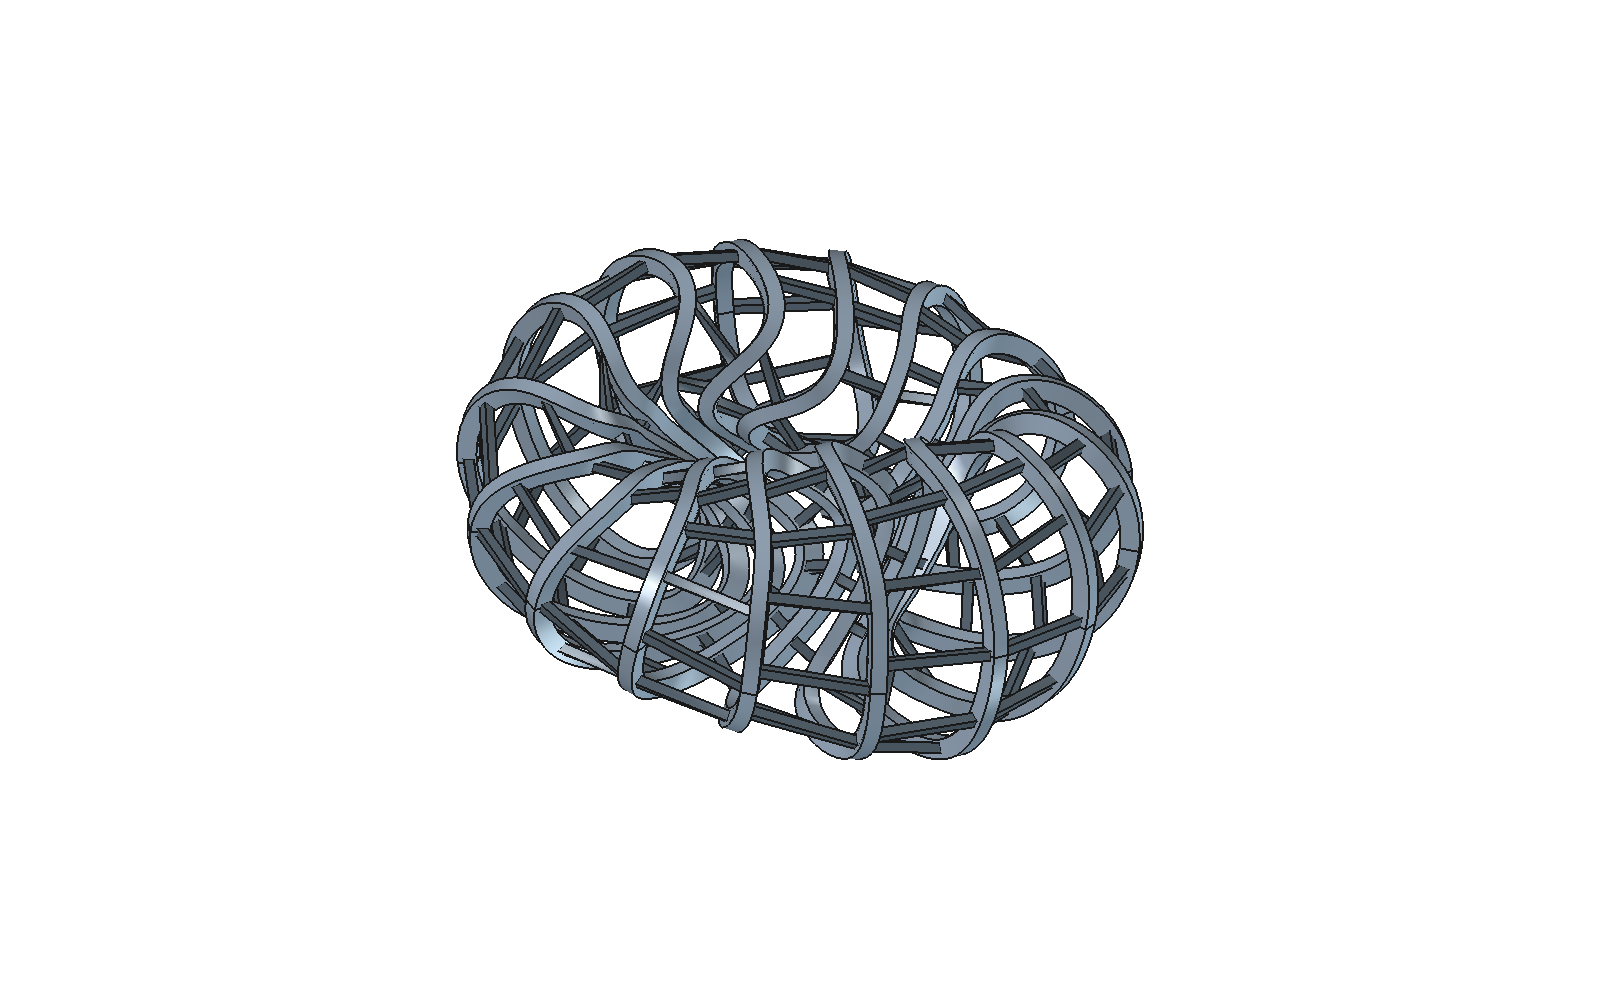
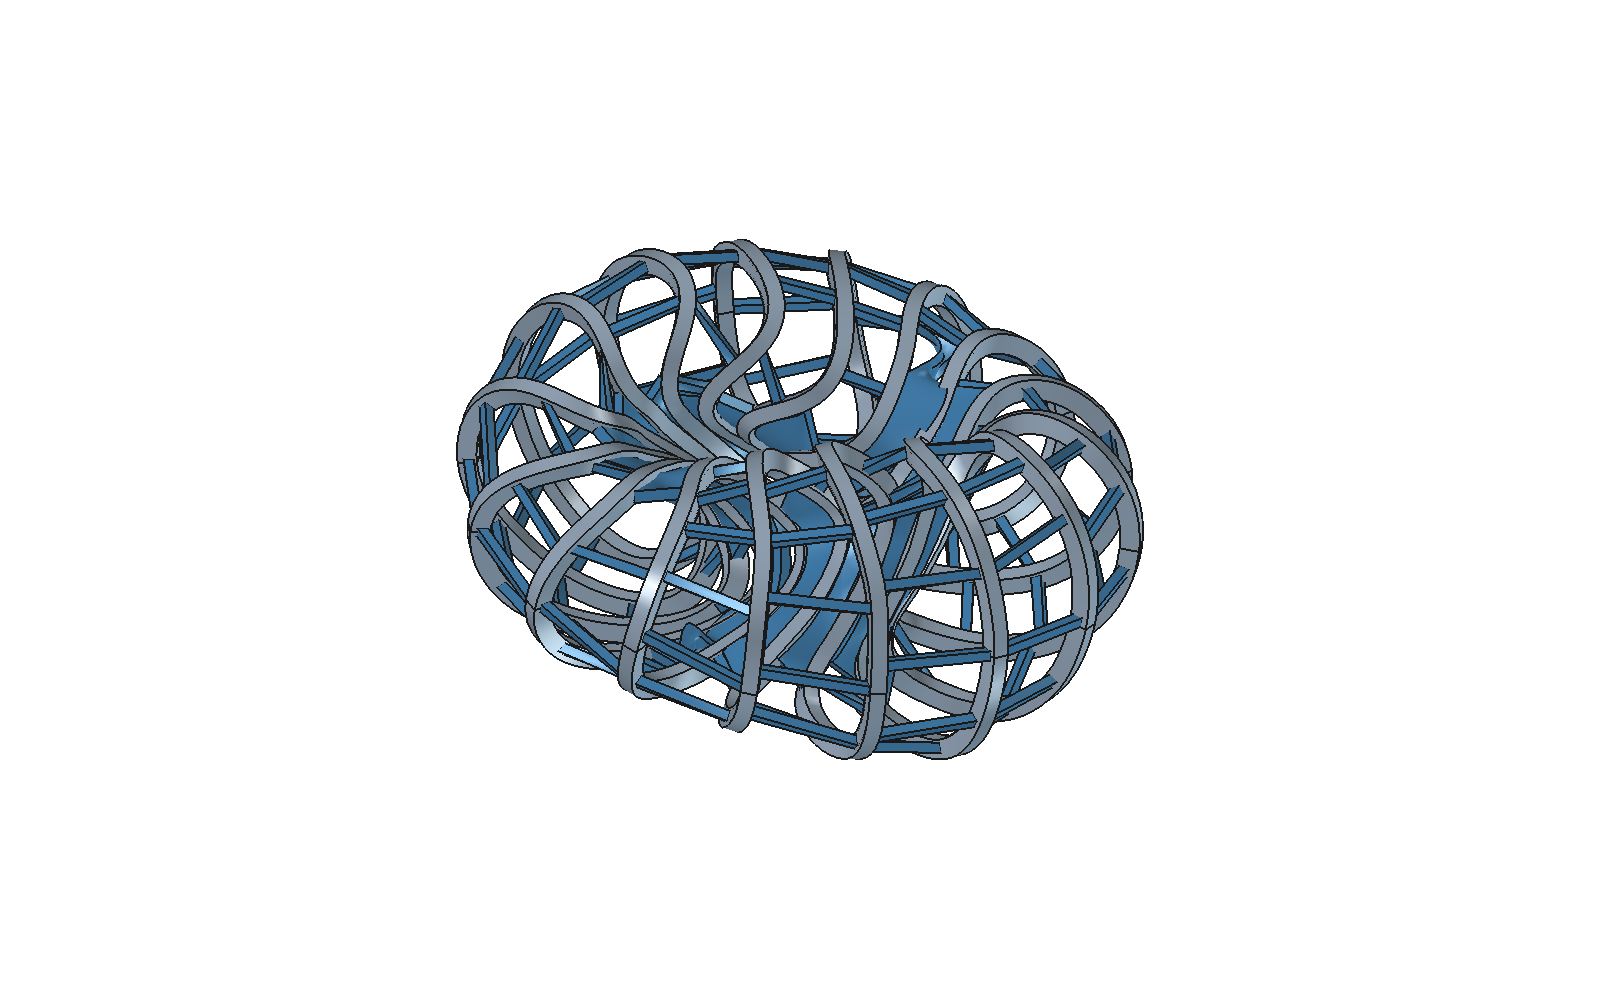
Keil auf der Torus-Innenseite (Gewoelbe nach Bachmann 2024), parametrisch, WP ausgeschnitten

diff --git a/stellarator/gehaeuse.py b/stellarator/gehaeuse.py
@@ -83,6 +83,17 @@ def permutationen(spulen, kand) -> list[list[int]]:
     return [[int(baum.query(M @ c)[1]) for c in S] for M in kand]
 
 
+def keil_bereich(dmin: np.ndarray, spanne: float) -> np.ndarray:
+    """Indizes (zyklisch zusammenhaengend) um den engsten Abstand mit dmin <= dmin.min() + spanne."""
+    i0 = int(np.argmin(dmin)); N = len(dmin); ok = dmin <= dmin.min() + spanne
+    lo = hi = i0
+    while ok[(lo - 1) % N] and (i0 - lo) < N // 2:
+        lo -= 1
+    while ok[(hi + 1) % N] and (hi - i0) < N // 2:
+        hi += 1
+    return np.arange(lo, hi + 1) % N
+
+
 def verbinder(spulen, nfp: int, br: float, ho: float, a) -> tuple[list[dict], list[dict]]:
     """Verbindungsstuecke zwischen toroidal benachbarten Gehaeusen.
 
@@ -107,8 +118,22 @@ def verbinder(spulen, nfp: int, br: float, ho: float, a) -> tuple[list[dict], li
             continue
         Pa, Pb = spulen[pa].punkte, spulen[pb].punkte
         ta, na, ba = rahmen[pa]; tb, nb_, bb = rahmen[pb]
+        # Keil (Bachmann 2024: Gewoelbe innen): zusammenhaengender Bereich um den engsten Abstand
+        dmin = np.array([np.linalg.norm(Pb - p, axis=1).min() for p in Pa])
+        bereich = keil_bereich(dmin, a.keil_spanne) if a.keil else np.array([], int)
+        keil = []
+        for i in bereich[np.linspace(0, len(bereich) - 1, a.keil).astype(int)] if len(bereich) else []:
+            j = int(np.argmin(np.linalg.norm(Pb - Pa[i], axis=1)))
+            d = Pb[j] - Pa[i]
+            ca = Pa[i] + np.sign(ba[i] @ d) * versatz * ba[i]; cb = Pb[j] + np.sign(bb[j] @ -d) * versatz * bb[j]
+            y = (cb - ca) / np.linalg.norm(cb - ca)
+            x = na[i] + nb_[j]; x -= (x @ y) * y; x /= np.linalg.norm(x)
+            keil.append({"c": (0.5 * (ca + cb) * 1e3).tolist(), "x": x.tolist(), "y": y.tolist(),
+                         "L": float(np.linalg.norm(cb - ca) * 1e3)})
         st = []
         for i in np.linspace(0, len(Pa), a.verbinder, endpoint=False).astype(int):
+            if i in set(bereich.tolist()):
+                continue                                         # dort sitzt der Keil
             j = int(np.argmin(np.linalg.norm(Pb - Pa[i], axis=1)))
             d = Pb[j] - Pa[i]
             sa, sb = np.sign(ba[i] @ d), np.sign(bb[j] @ -d)
@@ -117,7 +142,8 @@ def verbinder(spulen, nfp: int, br: float, ho: float, a) -> tuple[list[dict], li
             st.append({"A": {"c": (ca * 1e3).tolist(), "x": na[i].tolist(), "y": ya.tolist()},
                        "B": {"c": (cb * 1e3).tolist(), "x": nb_[j].tolist(), "y": yb.tolist()},
                        "laenge_m": float(np.linalg.norm(cb - ca))})
-        kanon.append({"name": f"V_{spulen[pa].name}_{spulen[pb].name}", "a": pa, "b": pb, "stationen": st})
+        kanon.append({"name": f"V_{spulen[pa].name}_{spulen[pb].name}", "a": pa, "b": pb, "stationen": st,
+                      "keil": keil})
     return kanon, klone
 
 
@@ -149,7 +175,8 @@ def eingabe(fall: dict, a, ordner: Path) -> Path:
          "kraft_max_MN_m": fmax / 1e6, "spulen_namen": [s.name for s in spulen]}
     if a.verbinder:
         d["verbinder"], d["verbinder_klone"] = verbinder(spulen, geo["nfp"], br, ho, a)
-        d["parameter"] |= {"verb_breite": a.verb_breite * mm, "verb_tiefe": a.verb_tiefe * mm}
+        d["parameter"] |= {"verb_breite": a.verb_breite * mm, "verb_tiefe": a.verb_tiefe * mm,
+                           "keil_tiefe": a.keil_tiefe * mm}
     ordner.mkdir(parents=True, exist_ok=True)
     p = ordner / "vss_eingabe.json"; p.write_text(json.dumps(d))
     return p
@@ -187,6 +214,9 @@ def main(argv=None):
     ap.add_argument("--verbinder", type=int, default=10, help="Verbindungsstuecke je Nachbarpaar (0 = keine)")
     ap.add_argument("--verb_breite", type=float, default=0.6, help="m, entlang der Spule")
     ap.add_argument("--verb_tiefe", type=float, default=0.6, help="m, quer (Richtung n)")
+    ap.add_argument("--keil", type=int, default=8, help="Skizzen im Keil auf der Torus-Innenseite (0 = kein Keil)")
+    ap.add_argument("--keil_spanne", type=float, default=1.0, help="m, Keil wo Abstand <= min + spanne")
+    ap.add_argument("--keil_tiefe", type=float, default=0.755, help="m, Tiefe des Keils (Richtung n)")
     ap.add_argument("--name")
     ap.add_argument("--oeffnen", action="store_true", help="FreeCAD-GUI mit dem Modell starten")
     a = ap.parse_args(argv)

diff --git a/stellarator/freecad_vss.py b/stellarator/freecad_vss.py
@@ -146,6 +146,7 @@ doc.recompute()
 
 # ---------------------------------------------------------------- Verbinder zwischen Nachbarn
 verbinder = []                                   # (Name, Objekt, Spule a, Spule b)
+wp_obj = {n: cw for n, _, cw in alle}
 kanon_obj = []
 for v in E.get("verbinder", []):
     lofts = []
@@ -159,6 +160,21 @@ for v in E.get("verbinder", []):
         lo = doc.addObject("Part::Loft", f"VL_{v['name']}_{j:02d}"); lo.Sections = sk
         lo.Solid = True; lo.Ruled = True; lo.Closed = False; lo.Visibility = False
         lofts.append(lo)
+    if v.get("keil"):                                # durchgehender Keil auf der Torus-Innenseite
+        sk = []
+        for j, k in enumerate(v["keil"]):
+            x = doc.addObject("Sketcher::SketchObject", f"K_{v['name']}_{j:02d}")
+            x.Placement = lage(k["c"], k["x"], k["y"])
+            rechteck_mitte(x, "Parameter.keil_tiefe", f"{k['L']:.1f} mm"); x.Visibility = False
+            sk.append(x)
+        kl_ = doc.addObject("Part::Loft", f"KL_{v['name']}"); kl_.Sections = sk
+        kl_.Solid = True; kl_.Ruled = False; kl_.Closed = False; kl_.Visibility = False
+        # schraege Skizzenebenen ragen ins Wickelpaket -> beide Wickelpakete herausschneiden
+        teil = kl_
+        for sn in (E["spulen_namen"][v["a"]], E["spulen_namen"][v["b"]]):
+            c_ = doc.addObject("Part::Cut", f"KC_{v['name']}_{sn}"); c_.Base = teil; c_.Tool = wp_obj[sn]
+            c_.Visibility = False; teil = c_
+        lofts.append(teil)
     comp = doc.addObject("Part::Compound", v["name"]); comp.Links = lofts
     kanon_obj.append(comp)
     verbinder.append((v["name"], comp, E["spulen_namen"][v["a"]], E["spulen_namen"][v["b"]]))

diff --git a/stellarator/freecad_ansicht.py b/stellarator/freecad_ansicht.py
@@ -21,7 +21,7 @@ for o in d.Objects:
     verb = o.Label.startswith("V_") and o.TypeId != "Sketcher::SketchObject"
     vo.Visibility = gehaeuse or wp or verb
     if verb:
-        vo.ShapeColor = (0.29, 0.35, 0.40)
+        vo.ShapeColor = (0.20, 0.45, 0.65)
     if gehaeuse:
         vo.ShapeColor = (0.54, 0.61, 0.69); vo.Transparency = 0
     elif wp:
@@ -32,6 +32,11 @@ for _ in range(3):                         # erst nach dem Zeichnen stimmt die H
     Gui.updateGui(); v.fitAll()
 Gui.updateGui()
 v.saveImage(os.path.join(os.path.dirname(pfad), "gehaeuse_freecad.png"), 1600, 1000, "White")
+v.viewTop()                                      # von oben: Keile auf der Torus-Innenseite
+for _ in range(3):
+    Gui.updateGui(); v.fitAll()
+v.saveImage(os.path.join(os.path.dirname(pfad), "gehaeuse_freecad_oben.png"), 1600, 1000, "White")
+v.viewIsometric(); v.fitAll()
 d.save()
 App.closeDocument(d.Name)
 Gui.getMainWindow().close()
